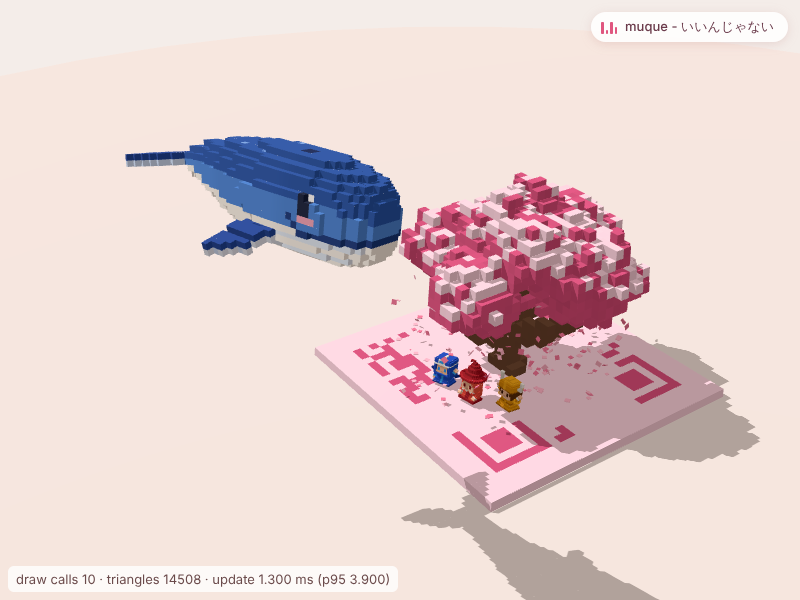
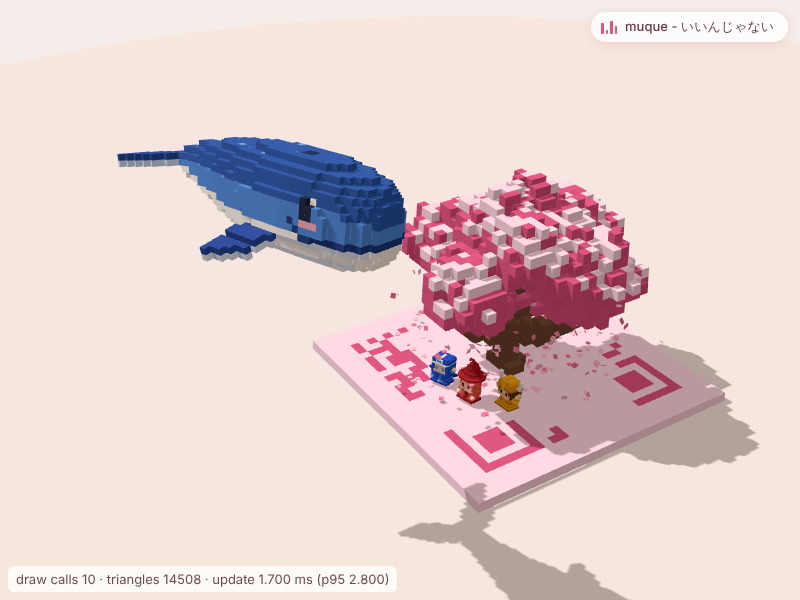
Whale's shadow no longer cut off
The demo light's shadow camera only covered +-5 cm round the tree; the whale circles ~4.7 cm out and its shadow
falls further still. It now covers +-11 cm (2048 texels, ~0.1 mm each), and the light sits three times further
out along the same direction so the whale still casts a shadow while it climbs.

Claude-Session: https://claude.ai/code/session_01FetaT53w5iQdLWHoFnmCoa

diff --git a/index.html b/index.html
@@ -75,10 +75,13 @@ controls.enableDamping = true;
 
 scene.add(new THREE.HemisphereLight('#fff6f2', '#b9a8a4', 1.6));
 const sun = new THREE.DirectionalLight('#ffffff', 2.2);
-sun.position.set(0.05, 0.11, 0.07);
+// far out along the same direction, so the whale still casts a shadow while it climbs high
+sun.position.set(0.05, 0.11, 0.07).multiplyScalar(3);
 sun.castShadow = true;
+// the shadow covers the whale's circle (radius ~4.7 cm) and where its shadow falls, not just the tree;
+// 2048 texels over 22 cm is ~0.1 mm, under a tenth of a tree cube (4096 would cost phones ~64 MB)
 sun.shadow.mapSize.set(2048, 2048);
-Object.assign(sun.shadow.camera, { left: -0.05, right: 0.05, top: 0.05, bottom: -0.05, near: 0.01, far: 0.3 });
+Object.assign(sun.shadow.camera, { left: -0.11, right: 0.11, top: 0.11, bottom: -0.11, near: 0.05, far: 0.9 });
 sun.shadow.bias = -0.0002;
 sun.shadow.normalBias = 0.0002;
 scene.add(sun);
